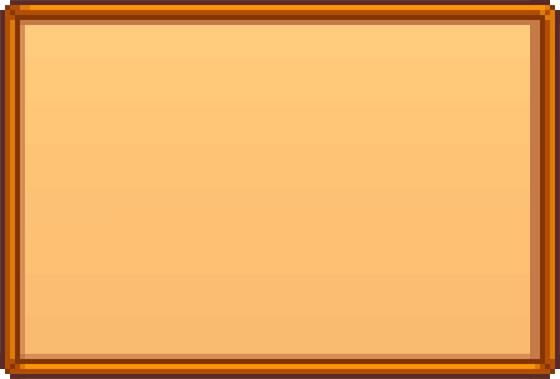
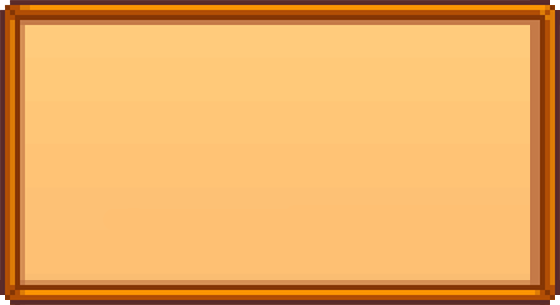
Add error popup + streamline code

Changed region(s): [[0.0, 0.0, 1.0, 0.0885], [0.0, 0.9148, 1.0, 1.0]]

diff --git a/css/styles.css b/css/styles.css
@@ -240,7 +240,7 @@ button {
   }
 }
 
-#help-popup {
+#help-popup, #error-popup {
   align-items: center;
   backdrop-filter: blur(3px);
   height: 100vh;
@@ -248,58 +248,77 @@ button {
   position: fixed;
   top: 0;
   width: 100vw;
-
-  #help-frame {
-    background-image: url(/images/stardew-help-frame.png);
-    background-repeat: no-repeat;
-    background-size: cover;
-
-    display: flex;
-    flex-direction: column;
-    align-items: center;
-    padding: 3rem 3rem;
-    text-align: center;
-
-    position: absolute;  
-    top: 50%;  
-    left: 50%;  
-    transform: translate(-50%, -50%);
-    height: 579px;
-    width: 560px;
-  
-    button {
-      width: 4rem;
-      position: fixed;
-      top: -1rem;
-      right: -1rem;
-
-      img {
-        height: 90%;
-        width: 95%;
-      }
-    }
-
-    button:hover {
-      filter: brightness(110%);
-      top: -1.5rem;
-      right: -1.5rem;
-      width: 5rem;
-
-      img:hover {
-        cursor: url(/images/site-icons/stardew-hand.webp), auto;
-      }
-    }
-
-    h1 {
-      color: var(--brown);
-      margin-bottom: 2rem;
-      text-shadow: none;
-    }
-
-    h3 {
-      margin-bottom: 1rem;
-    }
   }
+
+#help-frame {
+  background-image: url(/images/stardew-help-frame.png);
+  background-repeat: no-repeat;
+  background-size: cover;
+
+  display: flex;
+  flex-direction: column;
+  align-items: center;
+  padding: 3rem 3rem;
+  text-align: center;
+
+  position: absolute;  
+  top: 50%;  
+  left: 50%;  
+  transform: translate(-50%, -50%);
+  height: 579px;
+  width: 560px;
+  }
+
+#error-frame {
+  background-image: url(/images/stardew-error-frame.png);
+  background-repeat: no-repeat;
+  background-size: cover;
+
+  display: flex;
+  flex-direction: column;
+  align-items: center;
+  padding: 3rem 3rem;
+  text-align: center;
+
+  position: absolute;  
+  top: 50%;  
+  left: 50%;  
+  transform: translate(-50%, -50%);
+  height: 305px;
+  width: 560px;
+}
+
+#help-close, #error-close {
+  width: 4rem;
+  position: fixed;
+  top: -1rem;
+  right: -1rem;
+
+  img {
+    height: 90%;
+    width: 95%;
+  }
+}
+
+#help-close:hover, #error-close:hover {
+  filter: brightness(110%);
+  top: -1.5rem;
+  right: -1.5rem;
+  width: 5rem;
+
+  img:hover {
+    cursor: url(/images/site-icons/stardew-hand.webp), auto;
+  }
+}
+
+.h1-popup {
+  color: var(--brown);
+  margin-bottom: 2rem;
+  text-shadow: none;
+}
+
+.h3-popup {
+  margin-bottom: 1rem;
 }
 
 .hide {

diff --git a/postload.js b/postload.js
@@ -11,9 +11,12 @@ const junimos_obj = document.getElementById('Junimos');
 const wizard_obj = document.getElementById('Wizard');
 const krobus_obj = document.getElementById('Krobus');
 
+const error_popup_obj = document.getElementById('error-popup');
+const error_close_obj = document.getElementById('error-close');
+
 const help_obj = document.getElementById('help');
 const help_popup_obj = document.getElementById('help-popup');
-const help_close_obj = document.getElementById('help-close-button');
+const help_close_obj = document.getElementById('help-close');
 
 const zodiac_popup_obj = document.getElementById('zodiac-popup');
 const zodiac_close_obj = document.getElementById('zodiac-close-button');
@@ -31,11 +34,16 @@ help_close_obj.addEventListener('click', function(){
   console.log('hide');
 }, false);
 
+
 help_obj.addEventListener('click', function() {
   help_popup_obj.classList.remove('hide');
   console.log('help is here!')
 }, false);
 
+error_close_obj.addEventListener('click', function(){
+  error_popup_obj.classList.add('hide');
+  console.log('hide');
+}, false);
 
 zodiac_close_obj.addEventListener('click', function(){
   zodiac_popup_obj.classList.add('hide');
@@ -87,9 +95,9 @@ submit_obj.addEventListener('click', function(){
       astrological_sign = 'Marnie'
     }
     console.log(astrological_sign);
-    zodiac_info(astrological_sign)
+    zodiac_info(astrological_sign);
   } else {
-    
+    error_popup_obj.classList.remove('hide');
   }
 
 }, false);

diff --git a/index.html b/index.html
@@ -88,16 +88,28 @@
 
     <div id="help-popup" class="hide">
       <div id="help-frame">
-        <button id="help-close-button">
+        <button id="help-close">
           <img src="images/site-icons/stardew-close.webp" alt="Close">
         </button>
-        <h1>Need Help?</h1>
-        <h3>
+        <h1 class="h1-popup">Need Help?</h1>
+        <h3 class="h3-popup">
           1. Enter a valid date of birth.<br>
           2. Click on the arrow to submit.<br>
           3. See your match!
         </h3>
         <img src="images/forest-creatures.png" alt="forest Stardew Valley forest creatures">
+      </div>
+    </div>
+
+    <div id="error-popup" class="hide">
+      <div id="error-frame">
+        <button id="error-close">
+          <img src="images/site-icons/stardew-close.webp" alt="Close">
+        </button>
+        <h1 class="h1-popup">Error!</h1>
+        <h3 class="h3-popup">
+          Please input a valid date of birth.
+        </h3>
       </div>
     </div>
 
